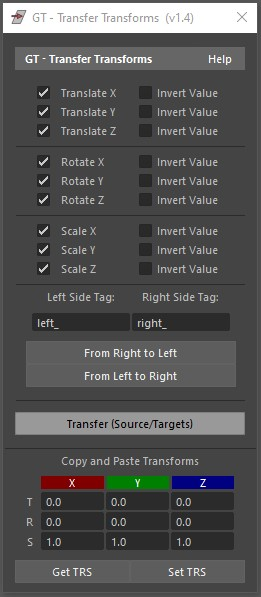
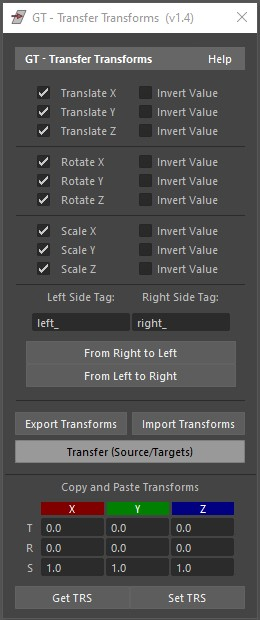
Added import and export transform functions (#12)

Changed region(s): [[0.0308, 0.0, 1.0, 0.995]]

diff --git a/python-scripts/gt_transfer_transforms.py b/python-scripts/gt_transfer_transforms.py
@@ -510,6 +510,9 @@ def build_gui_help_transfer_transforms():
     cmds.text(l='populates the text fields, or it pastes transforms', align='left')
     cmds.text(l='from selected fields back to selected objects.', align='left')
     cmds.text(l='', align='left')
+    cmds.text(l='Export and Import Transforms:', align='left', fn='boldLabelFont')
+    cmds.text(l='Exports a file contaning Translate, Rotate, and Scale\ndata for every selected object.', align='left')
+    cmds.text(l='When importing, it tries to find the same elements\nto apply the exported data.', align='left')
     cmds.separator(h=15, style='none') # Empty Space
     cmds.rowColumnLayout(nc=2, cw=[(1, 140),(2, 140)], cs=[(1,10),(2, 0)], p='main_column')
     cmds.text('Guilherme Trevisan  ')

diff --git a/docs/README.md b/docs/README.md
@@ -456,6 +456,11 @@ with the provided prefix "Left Side Tag".</p>
 
 <p><b>Copy and Paste Transforms: </b>
 <br>As the name suggests, it copy transforms, which populates the text fields, or it pastes transforms from selected fields back to selected objects.</p>
+
+<p><b>Export and Import Transforms: </b>
+<br>Exports a file contaning Translate, Rotate, and Scale data for every selected object.
+<br>When importing, it tries to find the same elements to apply the exported data.</p>
+
 <br>
 
 </div>
